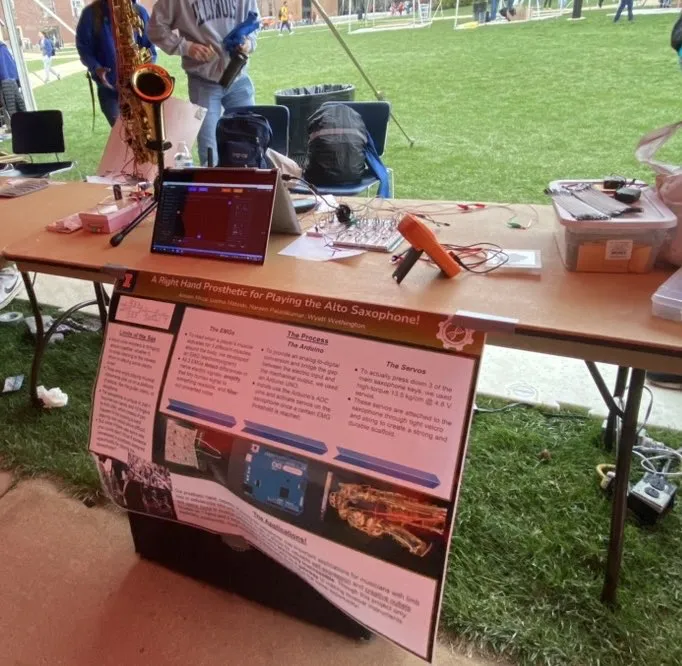
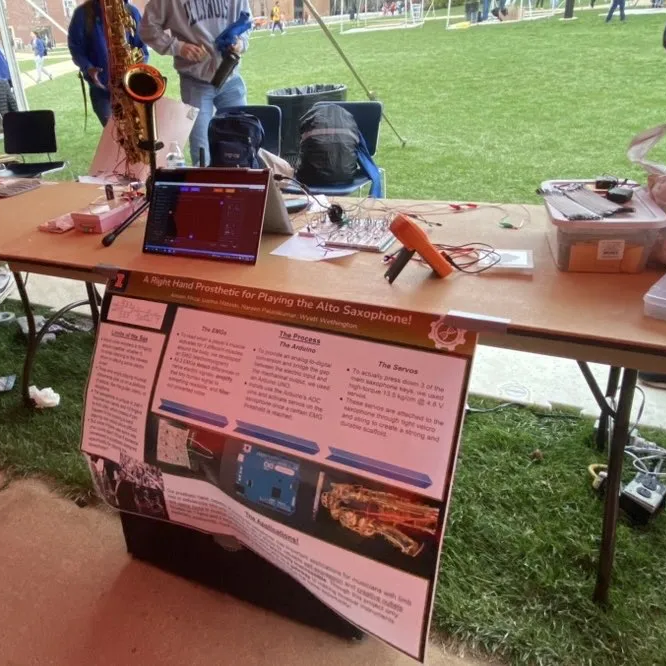
Caption all portfolio embeds; square + consistent saxophone photos
- Distinct caption style: a footer with a subtle fill and an accent stripe,
  applied to every portfolio embed (AML Shiny + volcano, fiber photometry
  Shiny, BIOE 420 PDF, TCR notebook report, meta-analysis video) and the
  saxophone photos, via a reusable .media-figure
- Re-crop both saxophone photos to a square (center crop from the original)
  and cap their width so the two render at a consistent, smaller size

diff --git a/assets/main.scss b/assets/main.scss
@@ -1531,12 +1531,12 @@ html { overflow-x: clip; }   /* keep wide off-screen ASCII art from triggering a
 }
 .post-content a:hover { color: var(--pa-accent-2); }
 
-/* Captioned media figures (portfolio images) */
+/* Captioned media figures (portfolio images and embeds).
+   Media sits in a 1px frame; the caption is a distinct footer with a subtle
+   fill and an accent stripe so it reads clearly as a caption. */
 .post-content figure.media-figure { margin: var(--pa-space-6) auto; }
-.media-figure {
-  margin: var(--pa-space-6) auto;
-  max-width: 560px;
-}
+.media-figure { margin: var(--pa-space-6) auto; }
+
 .media-figure img {
   display: block;
   width: 100%;
@@ -1544,16 +1544,33 @@ html { overflow-x: clip; }   /* keep wide off-screen ASCII art from triggering a
   border: 1px solid var(--pa-card-border);
   background: var(--pa-bg-flair);
 }
+.media-figure iframe {
+  display: block;
+  width: 100%;
+  border: 1px solid var(--pa-card-border);
+  background: var(--pa-card);
+}
+.media-figure .video-embed { margin: 0; }
+
 .media-figure figcaption {
-  margin-top: var(--pa-space-2);
+  padding: var(--pa-space-3) var(--pa-space-4);
+  background: var(--pa-bg-flair);
+  border: 1px solid var(--pa-card-border);
+  border-top: 0;
+  border-left: 2px solid var(--pa-accent);
   font-family: "Fragment Mono", ui-monospace, monospace;
   font-size: var(--pa-fs-mono-sm);
   letter-spacing: 0.02em;
   line-height: 1.5;
-  color: var(--pa-fg-dim);
-  text-align: center;
+  color: var(--pa-fg-muted);
 }
-.media-figure--portrait { max-width: 420px; }
+
+/* Square crop for the saxophone photos so the two read at a consistent size. */
+.media-figure--square { max-width: 440px; }
+.media-figure--square img {
+  aspect-ratio: 1 / 1;
+  object-fit: cover;
+}
 
 /* Paper-review citation card */
 .paper-card {

diff --git a/_portfolio/aml_proj.md b/_portfolio/aml_proj.md
@@ -17,11 +17,14 @@ Findings are surfaced through an interactive R Shiny dashboard with two views: a
 
 Source data drawn from [Zeng et al., *Cell Genomics* (2023)](https://doi.org/10.1016/j.xgen.2023.100426) and AML clinical data from NCI. Pipeline source lives in [`bioinformatics-public/preleukemia_analysis`](https://github.com/naraenp/bioinformatics-public/tree/main/preleukemia_analysis).
 
-<iframe src="https://naraenp2.shinyapps.io/preleuk_dashboard/"
-        title="AML scRNA-seq Shiny dashboard"
-        loading="lazy"
-        style="width: 100%; height: 800px; border: 1px solid var(--pa-card-border);">
-</iframe>
+<figure class="media-figure">
+  <iframe src="https://naraenp2.shinyapps.io/preleuk_dashboard/"
+          title="AML scRNA-seq Shiny dashboard"
+          loading="lazy"
+          style="height: 800px;">
+  </iframe>
+  <figcaption>Interactive R Shiny dashboard: a filterable UMAP of integrated hematopoietic lineages and a gallery of analysis figures.</figcaption>
+</figure>
 
 ### Bulk RNA-seq differential expression (Nextflow)
 
@@ -44,8 +47,11 @@ The real-data inputs (~130 MB from recount3 + the GENCODE annotation) are fetche
 
 The pipeline source and the [`main.nf`](https://github.com/naraenp/bioinformatics-public/blob/main/aml_rnaseq_nf/main.nf) workflow live in [`bioinformatics-public/aml_rnaseq_nf`](https://github.com/naraenp/bioinformatics-public/tree/main/aml_rnaseq_nf); see [`docs/REPORT.md`](https://github.com/naraenp/bioinformatics-public/blob/main/aml_rnaseq_nf/docs/REPORT.md) for a full run report: dataset provenance, the embedded volcano, and a runtime profile.
 
-<iframe src="{{ '/assets/embeds/aml_volcano.html' | relative_url }}"
-        title="Interactive volcano plot, AML vs. healthy bulk RNA-seq"
-        loading="lazy"
-        style="width: 100%; height: 760px; border: 1px solid var(--pa-card-border);">
-</iframe>
+<figure class="media-figure">
+  <iframe src="{{ '/assets/embeds/aml_volcano.html' | relative_url }}"
+          title="Interactive volcano plot, AML vs. healthy bulk RNA-seq"
+          loading="lazy"
+          style="height: 760px;">
+  </iframe>
+  <figcaption>Interactive volcano of the differential-expression results, with the canonical AML markers labeled above the significance line.</figcaption>
+</figure>

diff --git a/_portfolio/emgsax_proj.md b/_portfolio/emgsax_proj.md
@@ -11,16 +11,16 @@ Designed and exhibited a prosthetic concept for the 2023 Engineering Open House 
 
 **Platforms & Tools:** Arduino, C/C++, surface EMG circuitry, servo actuation
 
-<figure class="media-figure media-figure--portrait">
+<figure class="media-figure media-figure--square">
   <img src="{{ '/assets/images/portfolio/emg_saxophone_circuit.jpg' | relative_url }}"
        alt="Close-up of the EMG saxophone build, with the breadboarded acquisition circuit and its jumper wires in the foreground and the wired saxophone in its case behind it"
-       width="1200" height="1600" loading="lazy">
+       width="880" height="880" loading="lazy">
   <figcaption>The breadboarded EMG acquisition circuit (foreground) and the wired saxophone behind it. Building this circuit was my primary responsibility on the project.</figcaption>
 </figure>
 
-<figure class="media-figure">
+<figure class="media-figure media-figure--square">
   <img src="{{ '/assets/images/portfolio/emg_saxophone_booth.png' | relative_url }}"
        alt="Exhibit booth at the 2023 Engineering Open House showing the breadboarded EMG circuit on the right side of the table"
-       width="682" height="666" loading="lazy">
+       width="666" height="666" loading="lazy">
   <figcaption>Our booth at the 2023 Engineering Open House, with the EMG circuit set up on the right.</figcaption>
 </figure>

diff --git a/_portfolio/bioe420final_proj.md b/_portfolio/bioe420final_proj.md
@@ -12,13 +12,14 @@ Designed and tuned a PID controller in MATLAB/Simulink to deliver patient-specif
 
 **Platforms & Tools:** MATLAB, Simulink
 
-<iframe 
-    src="/assets/pdf/bioe420_group81_finalproject.pdf" 
-    width="100%" 
-    height="700px" 
-    style="border: none;"
-    title="BIOE 420 Group Final Project"
->
-    <!-- Fallback text if the browser does not support iframes -->
-    This browser does not support PDFs. Please <a href="/assets/pdf/bioe420_group81_finalproject.pdf">download the PDF</a> to view the document.
-</iframe>
+<figure class="media-figure">
+  <iframe
+      src="/assets/pdf/bioe420_group81_finalproject.pdf"
+      height="700px"
+      title="BIOE 420 Group Final Project"
+  >
+      <!-- Fallback text if the browser does not support iframes -->
+      This browser does not support PDFs. Please <a href="/assets/pdf/bioe420_group81_finalproject.pdf">download the PDF</a> to view the document.
+  </iframe>
+  <figcaption>Our final project report for BIOE 420 Control Systems (PDF).</figcaption>
+</figure>

diff --git a/_portfolio/metayt_proj.md b/_portfolio/metayt_proj.md
@@ -9,11 +9,14 @@ An end-to-end video walkthrough of conducting a meta-analysis in R, covering eff
 
 **Platforms & Tools:** R, RStudio, metafor
 
-<div class="video-embed">
-  <iframe
-    src="https://www.youtube-nocookie.com/embed/videoseries?list=PLmFHtQ8-eUICUvMYYj6CHVqWOrQWxvhVH"
-    title="R Meta-Analysis Walkthrough playlist"
-    frameborder="0"
-    allow="accelerometer; clipboard-write; encrypted-media; gyroscope; picture-in-picture"
-    allowfullscreen></iframe>
-</div>
+<figure class="media-figure">
+  <div class="video-embed">
+    <iframe
+      src="https://www.youtube-nocookie.com/embed/videoseries?list=PLmFHtQ8-eUICUvMYYj6CHVqWOrQWxvhVH"
+      title="R Meta-Analysis Walkthrough playlist"
+      frameborder="0"
+      allow="accelerometer; clipboard-write; encrypted-media; gyroscope; picture-in-picture"
+      allowfullscreen></iframe>
+  </div>
+  <figcaption>Seven-part YouTube walkthrough of an end-to-end meta-analysis in R.</figcaption>
+</figure>

diff --git a/_portfolio/fiberphot_proj.md b/_portfolio/fiberphot_proj.md
@@ -13,6 +13,11 @@ The tool was used in [Sweeney et al., *Journal of Neuroscience* (2023) "Paravent
 
 **Platforms & Tools:** R, R Shiny, ggplot2, shinyapps.io
 
-<iframe src="https://naraenp2.shinyapps.io/fp_final/" 
-        style="width: 100%; height: 800px; border: 1px solid var(--pa-card-border);">
-</iframe>
+<figure class="media-figure">
+  <iframe src="https://naraenp2.shinyapps.io/fp_final/"
+          title="Fiber photometry R Shiny app"
+          loading="lazy"
+          style="height: 800px;">
+  </iframe>
+  <figcaption>Live R Shiny app: upload raw fiber photometry recordings and metadata to get processed signals, summary statistics, and publication-ready figures.</figcaption>
+</figure>
